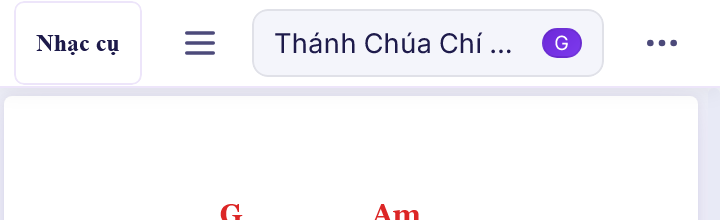
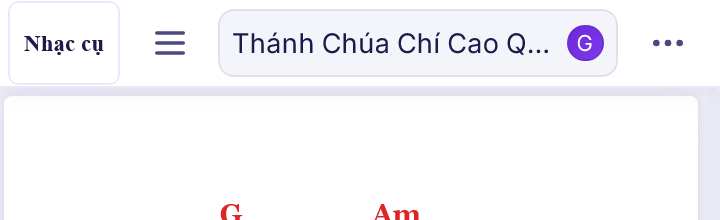
fix(ux0-22): ensure #song-title width > 120px at 360px on WebKit and verify M4-8/M4-9b 3x

diff --git a/assets/css/library-polish.css b/assets/css/library-polish.css
@@ -2464,3 +2464,29 @@ body.dark-mode #main-dropdown-menu .icon-btn-xs {
     z-index: 1000 !important;
   }
 }
+
+
+/* UX0-22: Ở điện thoại hẹp (<= 430px), thu gọn đệm/khoảng cách cạnh #song-title để #song-title luôn rộng > 120px ở 360px */
+@media (max-width: 430px) {
+  .unified-toolbar {
+    gap: 3px !important;
+    padding-left: max(4px, env(safe-area-inset-left, 0px)) !important;
+    padding-right: max(4px, env(safe-area-inset-right, 0px)) !important;
+  }
+  .unified-toolbar .toolbar-left {
+    gap: 2px !important;
+  }
+  .unified-toolbar .song-info-pill {
+    padding: 0 6px !important;
+    gap: 4px !important;
+  }
+  .unified-toolbar .song-key-badge {
+    padding: 1px 4px !important;
+    font-size: 11px !important;
+  }
+  #toolbar .instrument-annotations > button {
+    min-width: 56px !important;
+    padding: 0 4px !important;
+    font-size: 11.5px !important;
+  }
+}

diff --git a/sw.js b/sw.js
@@ -11,7 +11,7 @@
 
 const urlParams      = new URLSearchParams(self.location.search);
 const SW_VERSION     = urlParams.get('v') || 'v5';
-const SW_MANIFEST_HASH = '6c15b8c9f7';
+const SW_MANIFEST_HASH = 'a81b3292b3';
 const SW_VENDOR_HASH = 'e8b6692a09';
 const CACHE_VENDOR   = `sheetapp-vendor-${SW_VENDOR_HASH}`;
 const CACHE_APP      = `sheetapp-app-${SW_VERSION}-${SW_MANIFEST_HASH}`;
